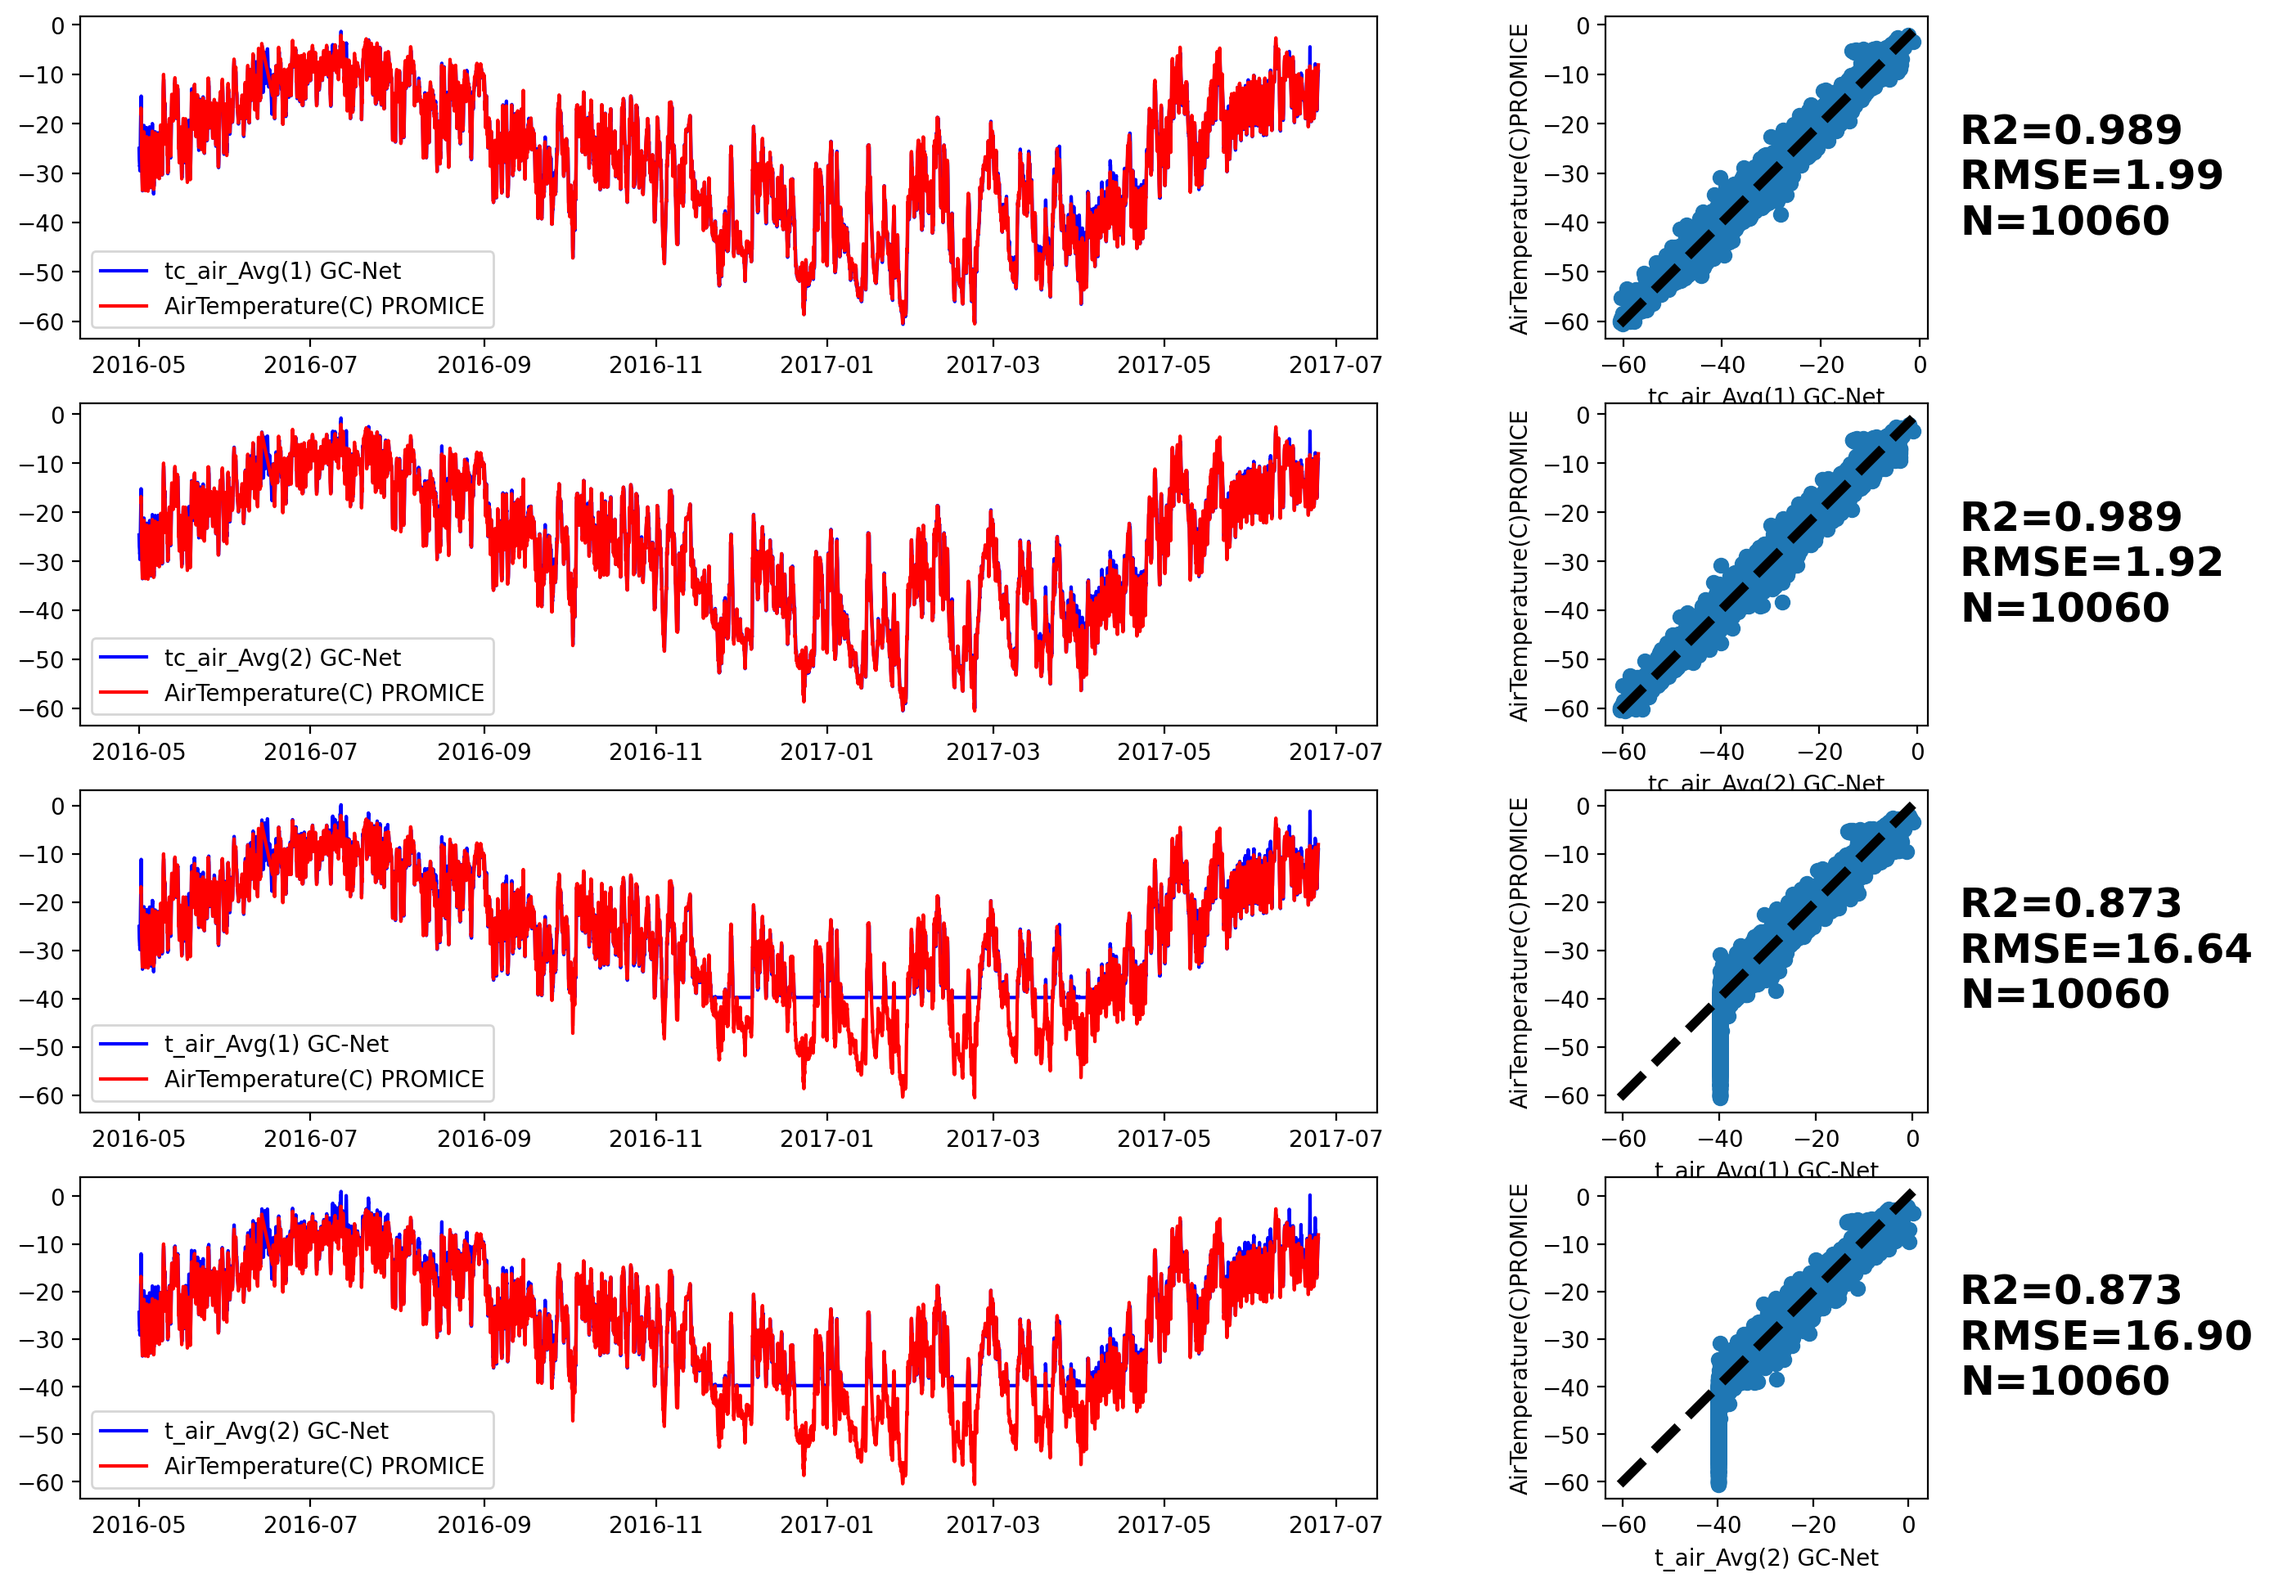
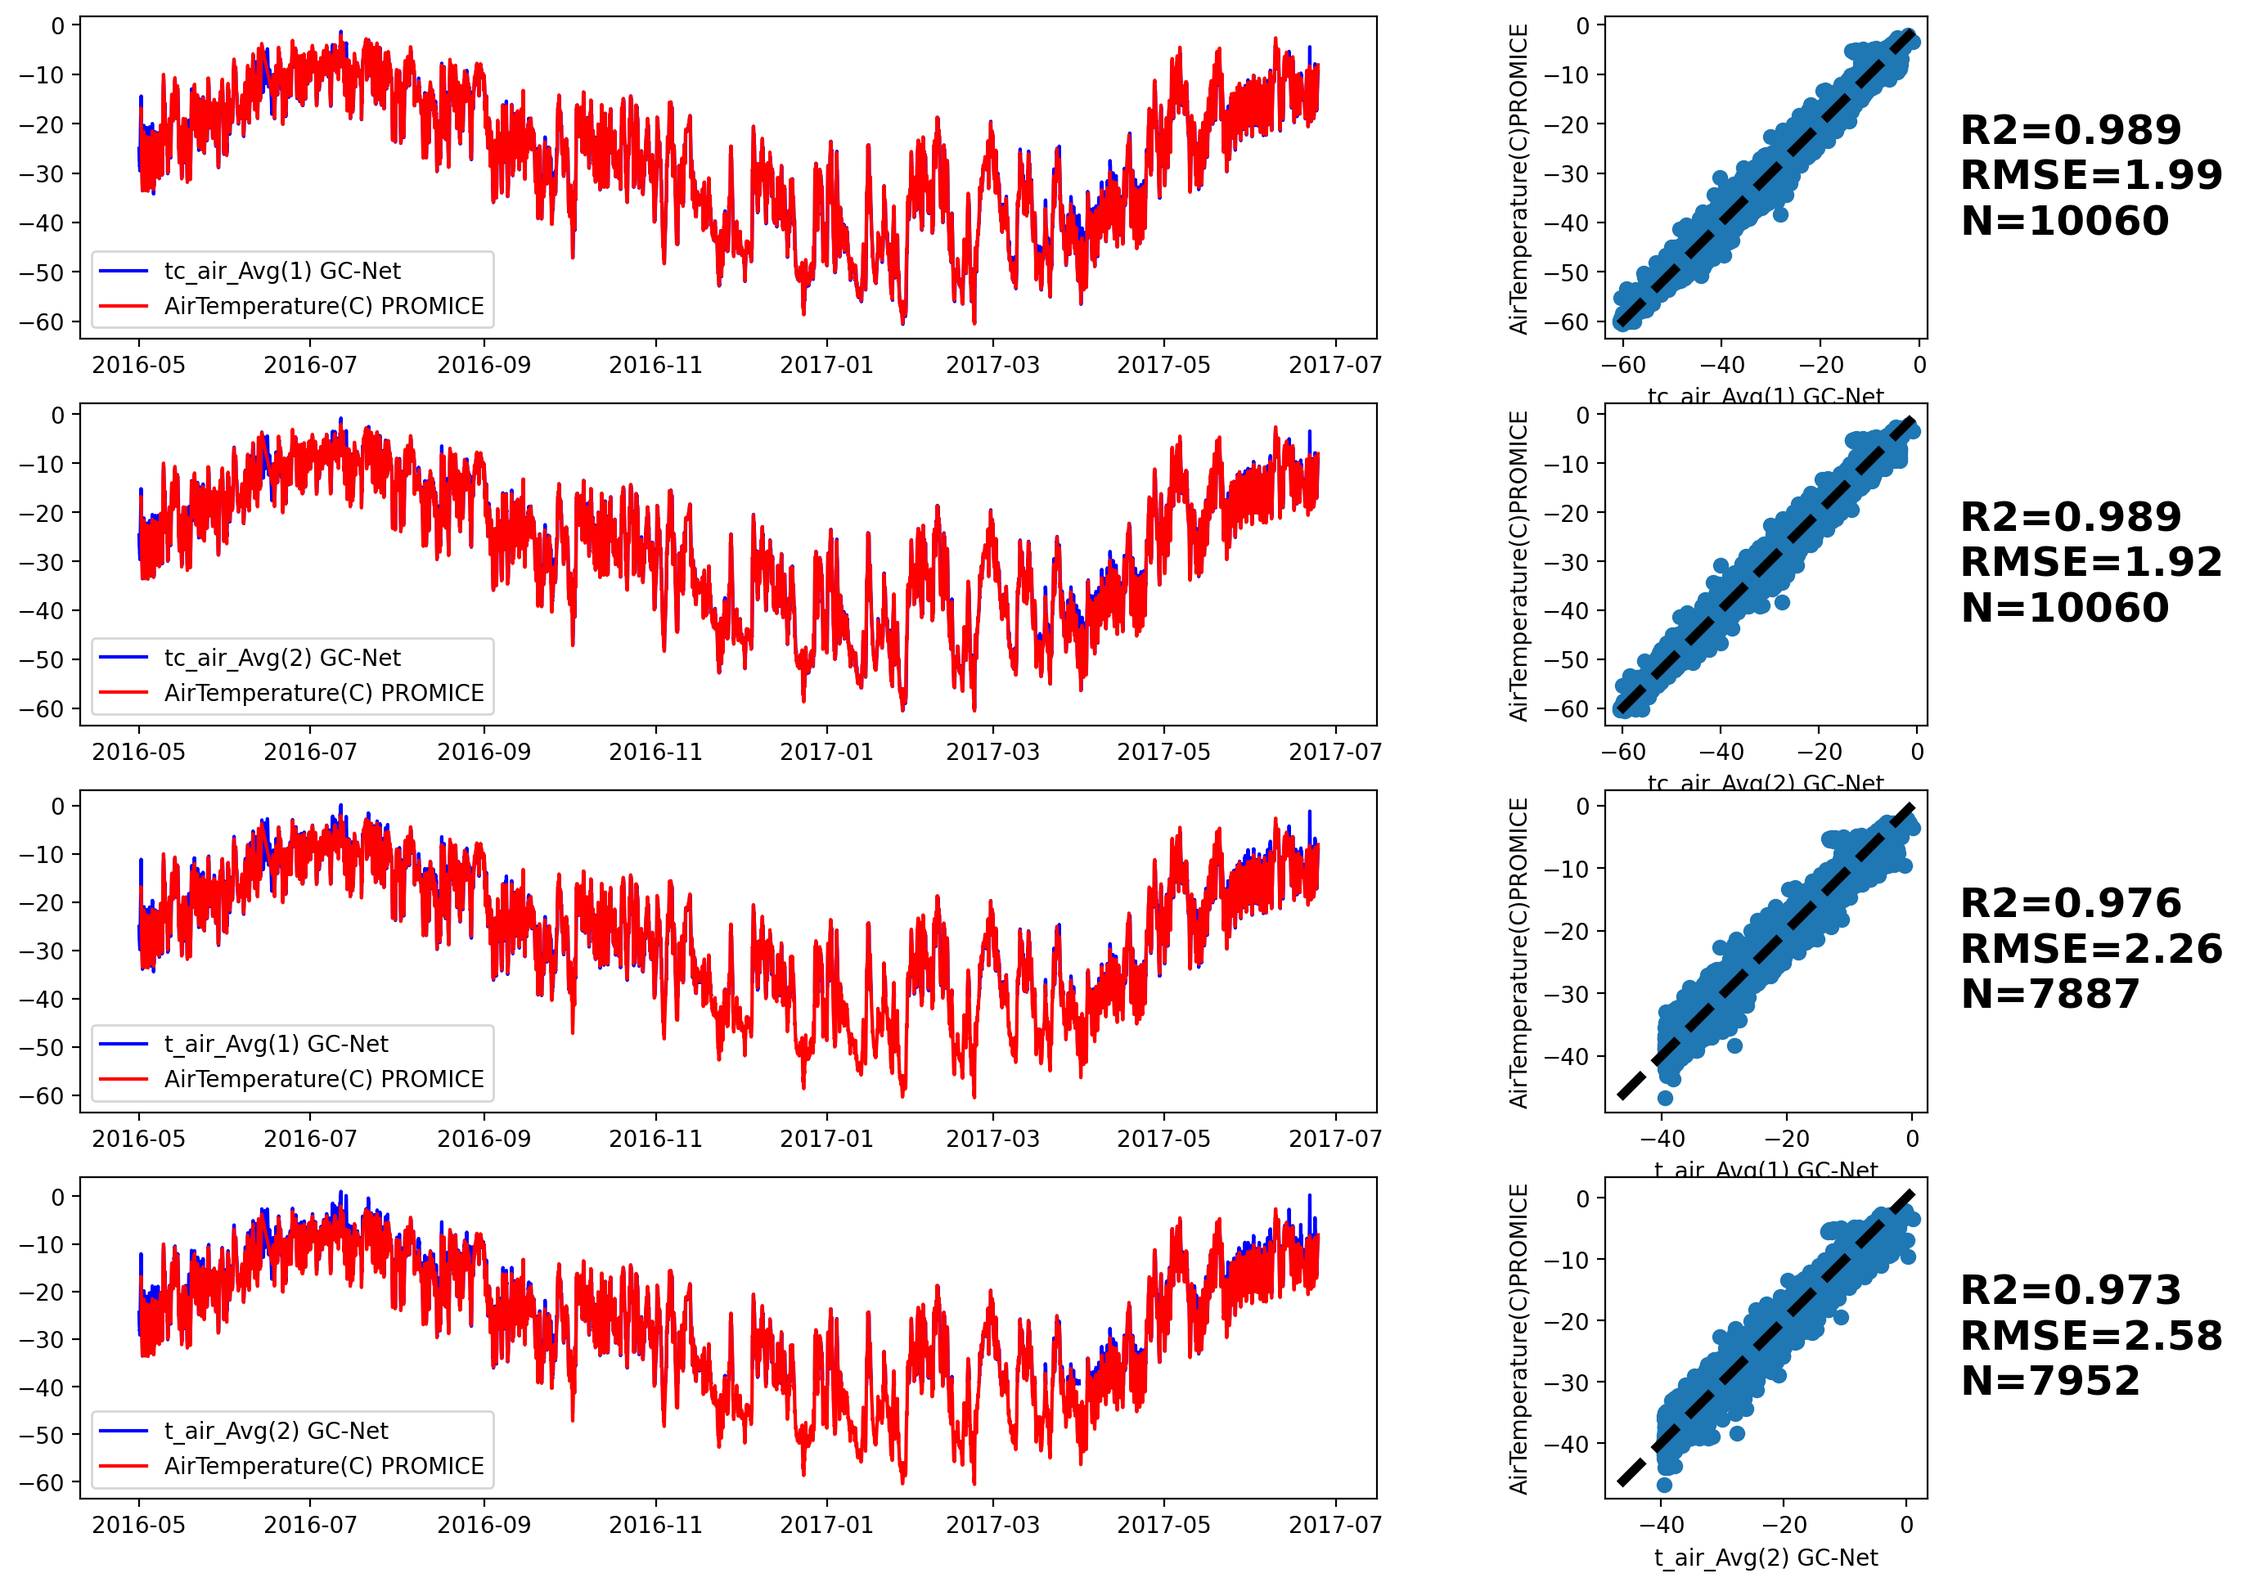
update EGP_temp

diff --git a/GC-Net-evaluation.py b/GC-Net-evaluation.py
@@ -129,8 +129,8 @@ df_all['Dir_Avg(1)']=360-df_all['Dir_Avg(1)']
 
 df_interpol = df_all.interpolate(method='time')
 df_interpol = df_interpol[~df_interpol.index.duplicated(keep='first')].resample('h').asfreq()
-df_interpol['t_air_Avg(1)'].loc[df_interpol['t_air_Avg(1)']<=-39.9] = np.nan
-df_interpol['t_air_Avg(2)'].loc[df_interpol['t_air_Avg(2)']<=-39.9] = np.nan
+df_interpol['t_air_Avg(1)'].loc[df_interpol['t_air_Avg(1)']<=-39.5] = np.nan
+df_interpol['t_air_Avg(2)'].loc[df_interpol['t_air_Avg(2)']<=-39.5] = np.nan
 
 # %% Plotting
 varname1 =  ['tc_air_Avg(1)', 'tc_air_Avg(2)', 't_air_Avg(1)','t_air_Avg(2)']
